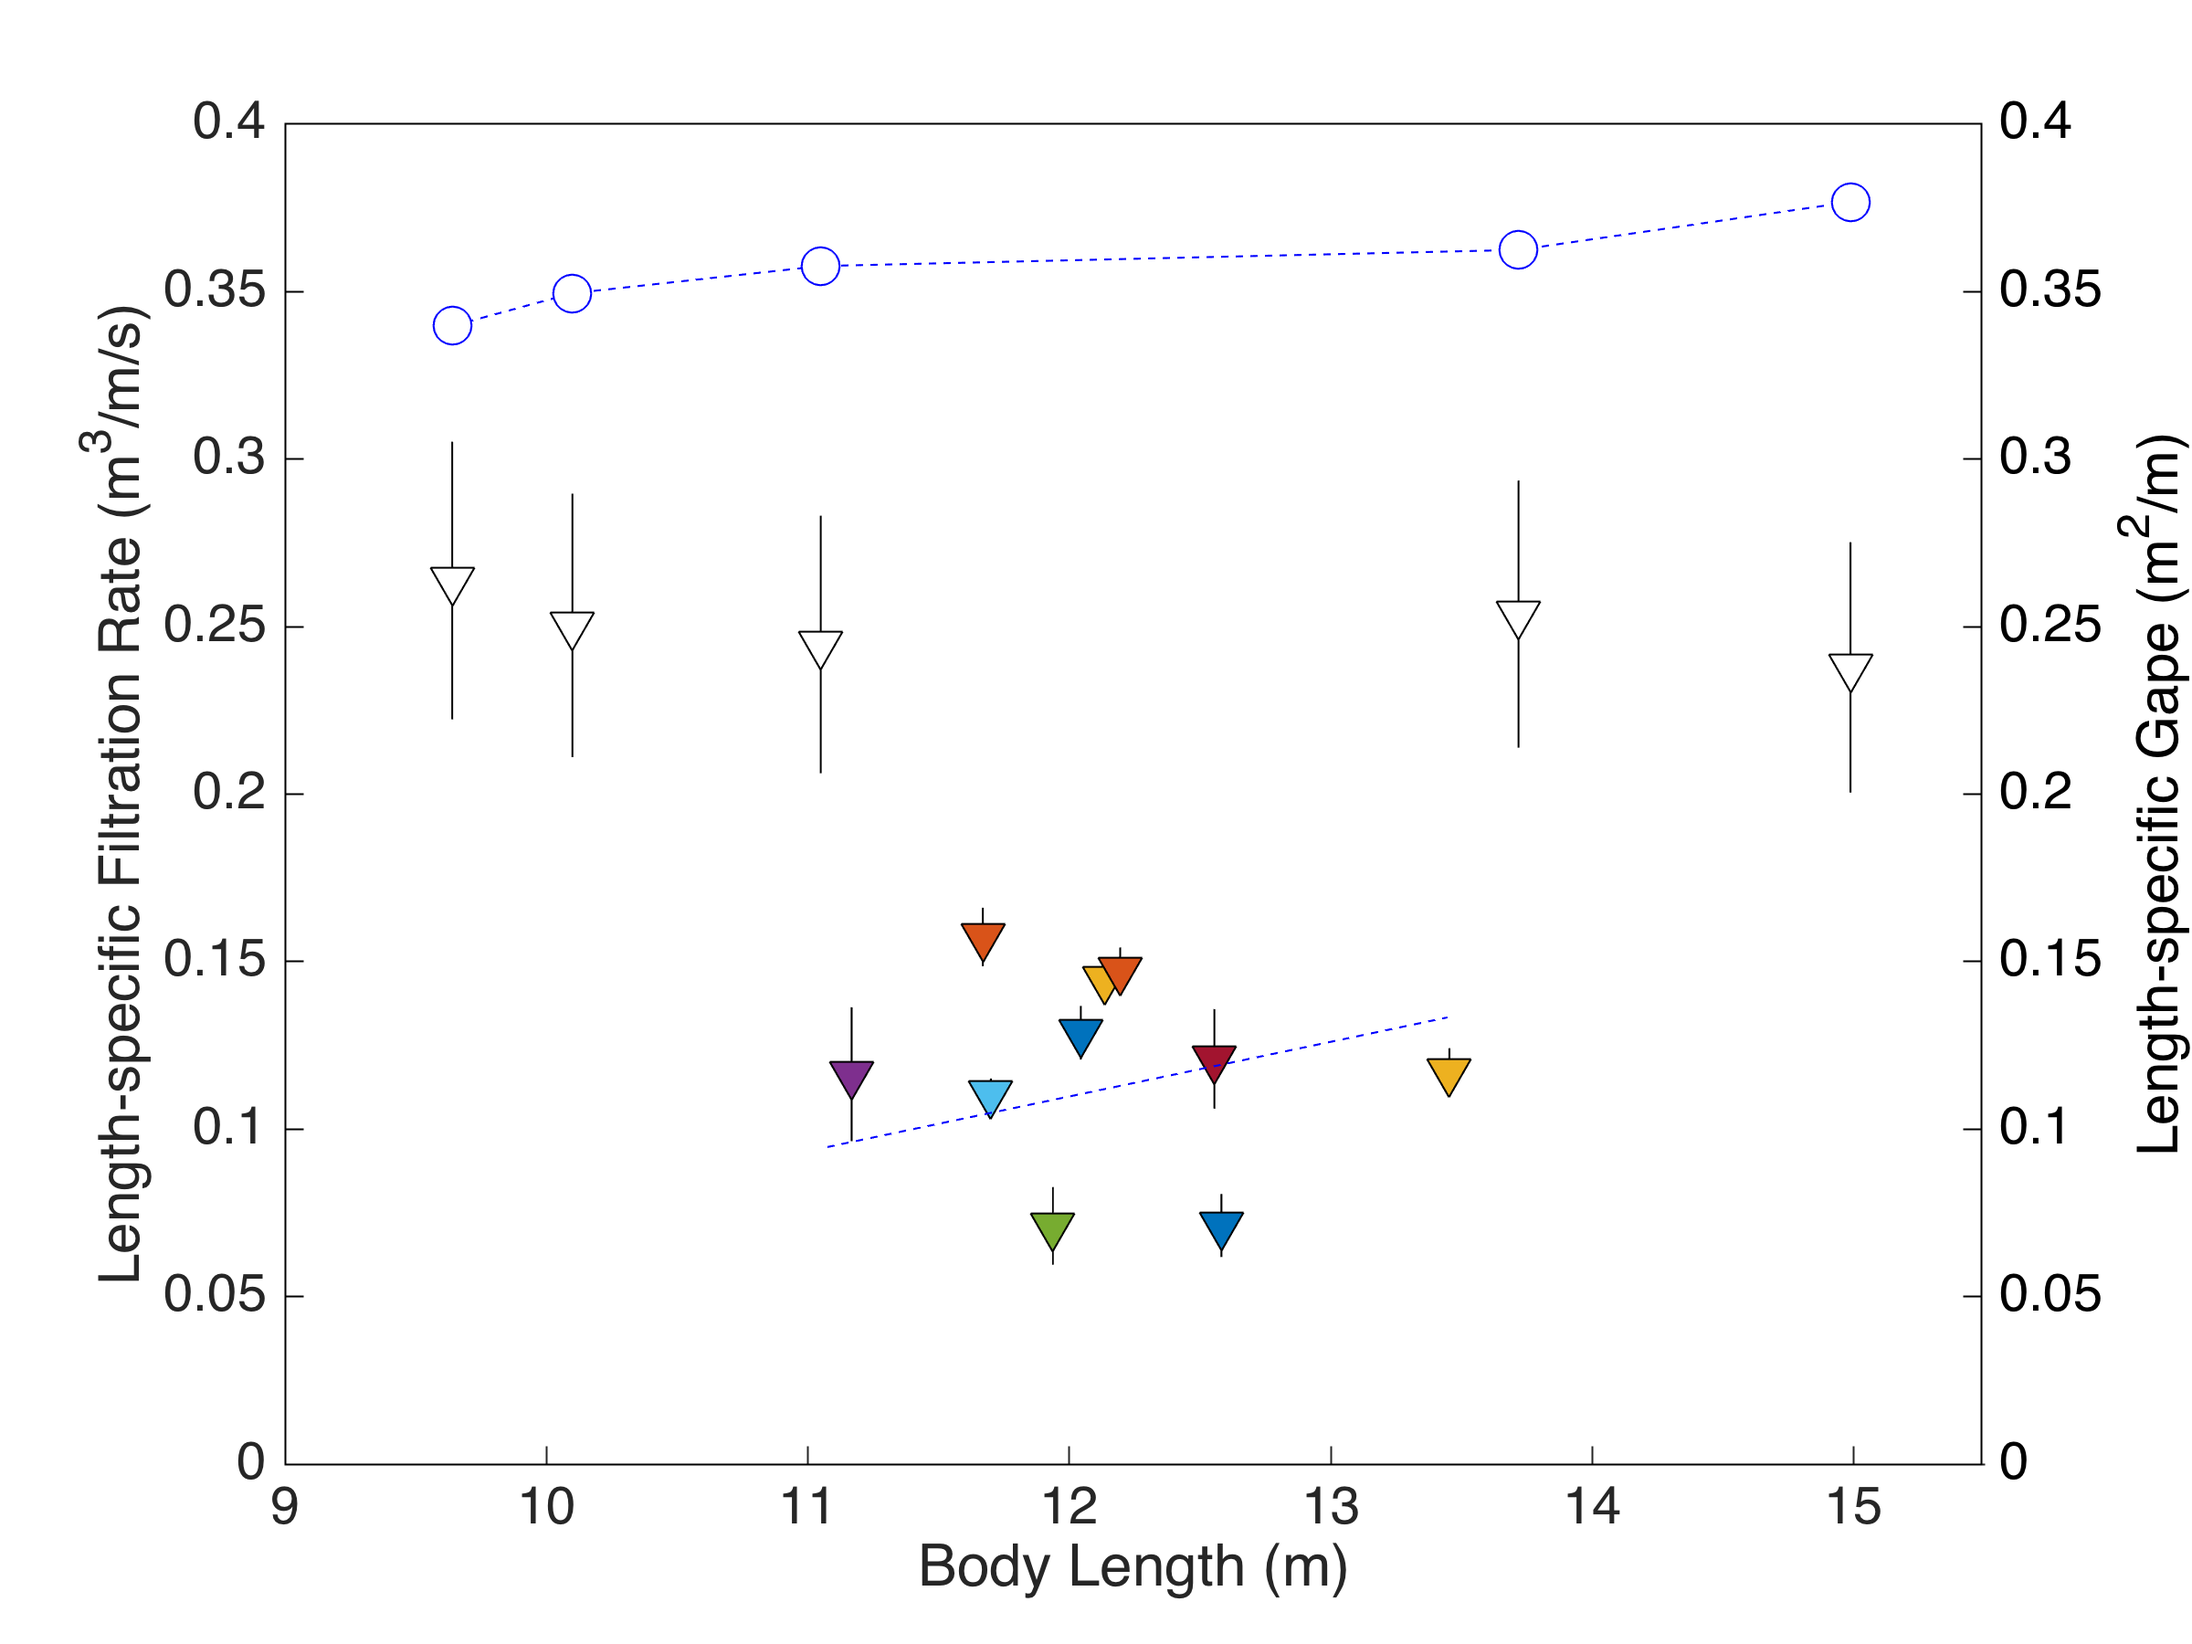
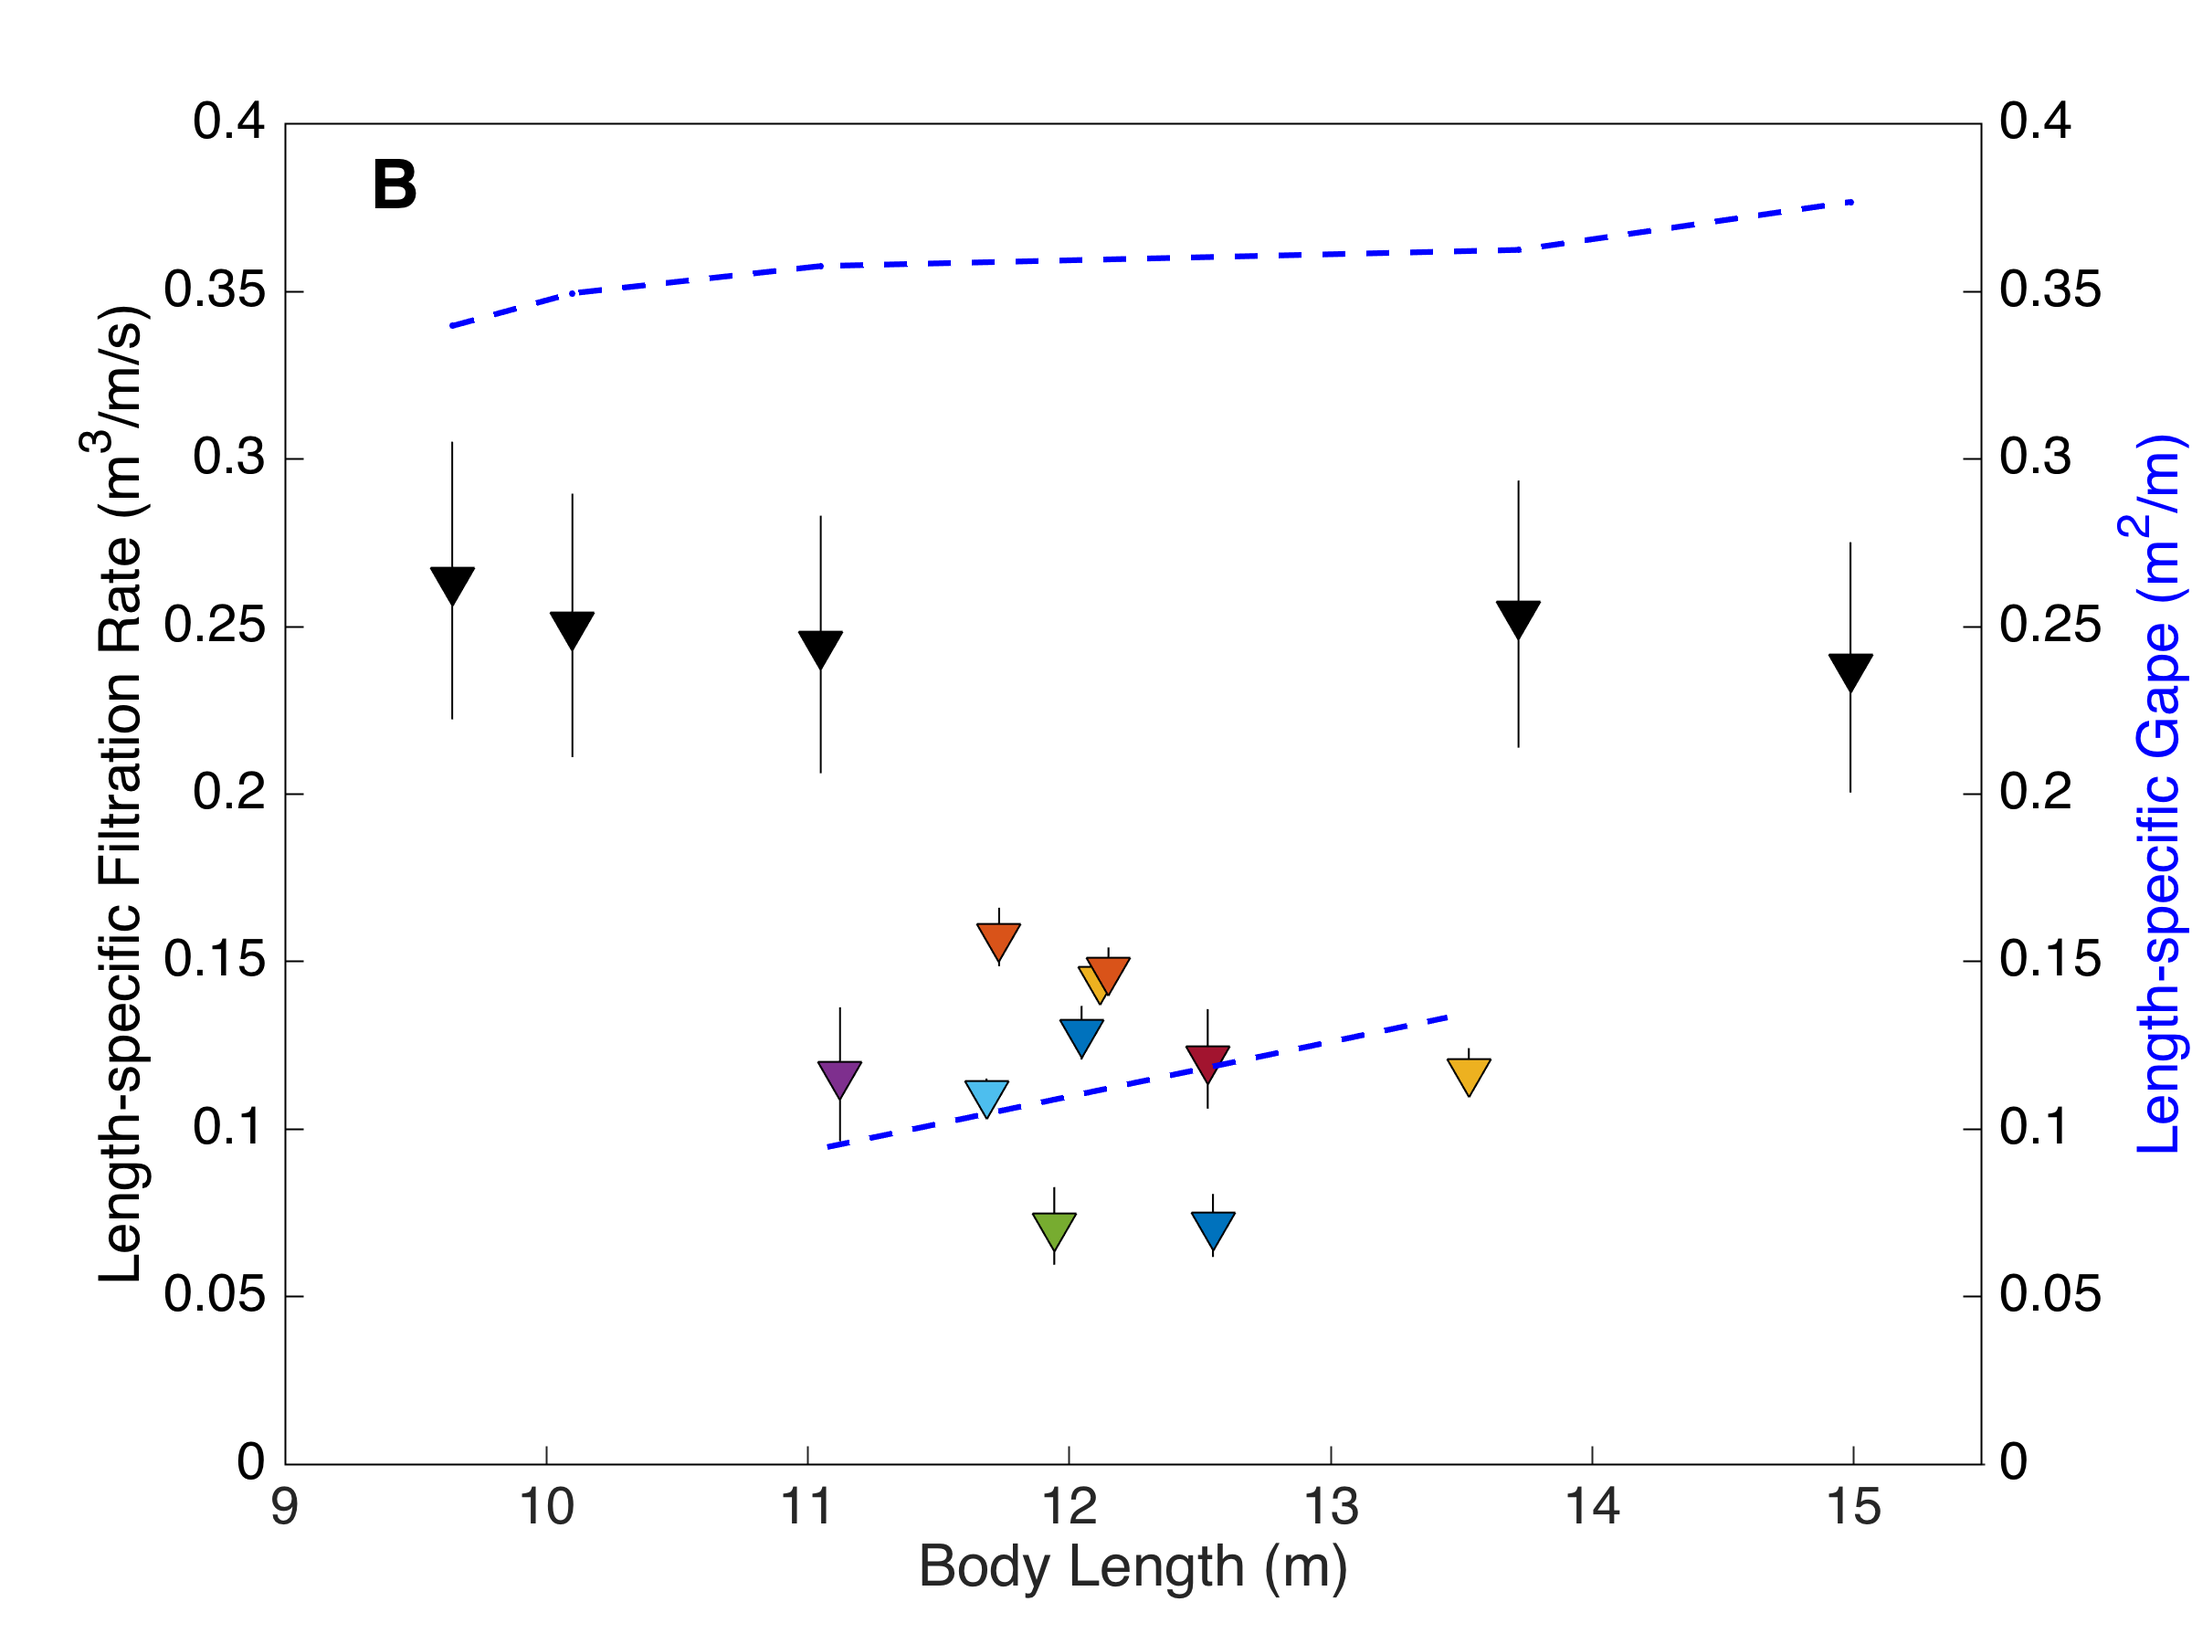
resubmit

diff --git a/NARW_totalVolume.m b/NARW_totalVolume.m
@@ -293,22 +293,22 @@ end
 
 Lb = [14.99 10.10 11.05 9.64 13.72];
 AO = [5.09 3.61 3.86 3.63 4.97];
-plot(h1,sort(Lb),sort(AO./Lb),'bo--','markerfacecolor','white','markersize',10) % bowhead gapes
-plot(h1,sort(lnths),sort(gapes./lnths),'b--') % right whale gapes
+plot(h1,sort(Lb),sort(AO./Lb),'b.--','LineWidth',1.5) % bowhead gapes
+plot(h1,sort(lnths),sort(gapes./lnths),'b--','LineWidth',1.5) % right whale gapes
 for i = 1:length(Lb)
 plot(h1,[Lb(i) Lb(i)],[(AO(i)./Lb(i))*(0.7+0.11) (AO(i)./Lb(i))*(0.7-0.11)],'k-') % filtration rate with error
 end
-plot(h1,Lb,AO./Lb*0.7,'kv','markerfacecolor','white','markersize',10) % filtration rate with mean speed
+plot(h1,Lb,AO./Lb*0.7,'kv','markerfacecolor','black','markersize',10) % filtration rate with mean speed
 
-h1 = gca; ylim([0 0.4]), xlim([9 15.5])
+h1 = gca; ylim([0 0.4]), xlim([9 15.5]), h1.YColor = 'k'; 
 h2 = axes('Color','none','XColor','k','YColor','k',...
           'YLim',[0 0.4],'Xlim',[9 15.5],'xtick',[],...
           'Yaxislocation','right','NextPlot','add');
 xlabel(h1,'Body Length (m)');
 ylabel(h1,'Length-specific Filtration Rate (m^3/m/s)');
-ylabel(h2,'Length-specific Gape (m^2/m)');
+ylabel(h2,'Length-specific Gape (m^2/m)','color','blue');
 box on 
-
+axletter(gca,'B')
 adjustfigurefont('Helvetica',14)
 % print
 print('bowhead_right_perlength.png','-dpng','-r300')

diff --git a/bowhead_right_drag.m b/bowhead_right_drag.m
@@ -82,7 +82,10 @@ right_frate2 = 2*U;
 plot(h2,U,bowhead_frate,'--','LineWidth',2)
 plot(h2,U,right_frate1,'--','LineWidth',2)
 plot(h2,U,right_frate2,'--','LineWidth',2)
-legend('Bowhead, 4.2 m^2 gape', 'Right, 1 m^2 gape', 'Right, 2 m^2 gape','location','NW')
+leg = legend('Bowhead, 4.2 m^2 gape', 'Right, 1 m^2 gape', 'Right, 2 m^2 gape','location','NW');
+leg.Position = [0.2168 0.7370 0.3652 0.1693];
+
+axletter(gca,'A')
 
 adjustfigurefont('Helvetica',14), print('bowhead_right_drag','-dsvg')
 
@@ -97,11 +100,9 @@ plot(h1,0.7,bowhead_drag(find(U == 0.7))/max(bowhead_drag),'o')
 plot(h1,1.1,right_drag1(find(U == 1.1))/max(bowhead_drag),'o')
 plot(h1,1.1,right_drag2(find(U == 1.1))/max(bowhead_drag),'o')
 
-
 % plot(h1,allspeeds,data_drag,'o')
 % plot(h2,allspeeds,all_hr_rate/3600,'^')
 return 
-
 %% mouth vs body length bowheads Werth 2004
 Lb = [14.99 10.10 11.05 9.64 13.72];
 AO = [5.09 3.61 3.86 3.63 4.97];
@@ -110,6 +111,9 @@ figure(1), clf, hold on
 plot(Lb,AO/Lb,'bo')
 plot(lnths,gapes/lnths,'rv')
 xlabel('Body Length (m)'), ylabel('Gape (m^2)/Body Length (m)') 
+
+% See NARW_totalVolume bottom Figure 8
+return 
 %% sharks
 whaleshark_drag = 0.5*rho*0.1*Cd*U.^2*g*k; 
 basking_drag = 0.5*rho*0.4*Cd*U.^2*g*k;
